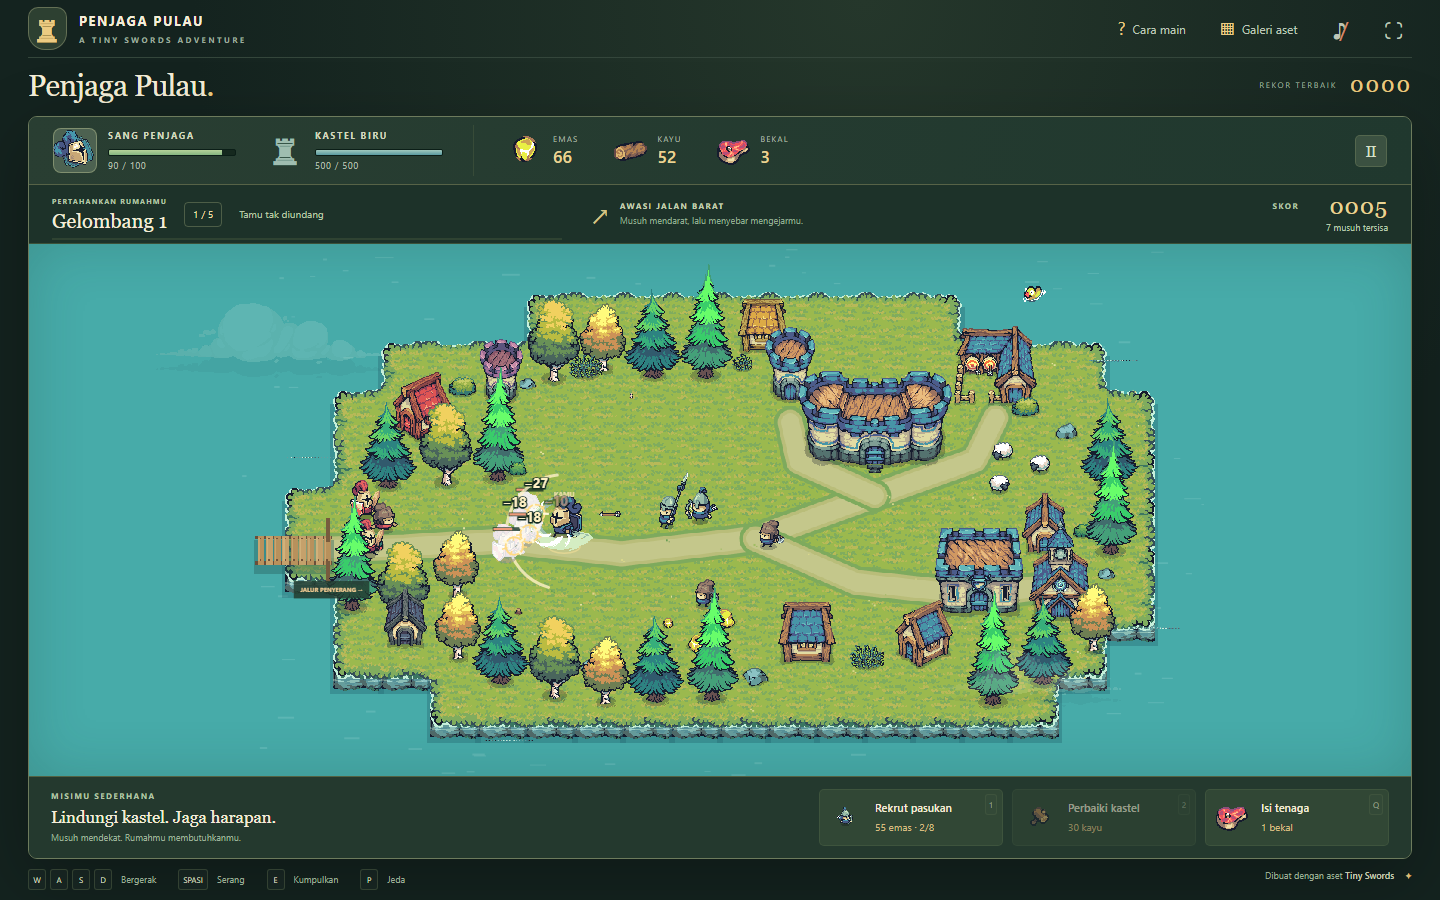
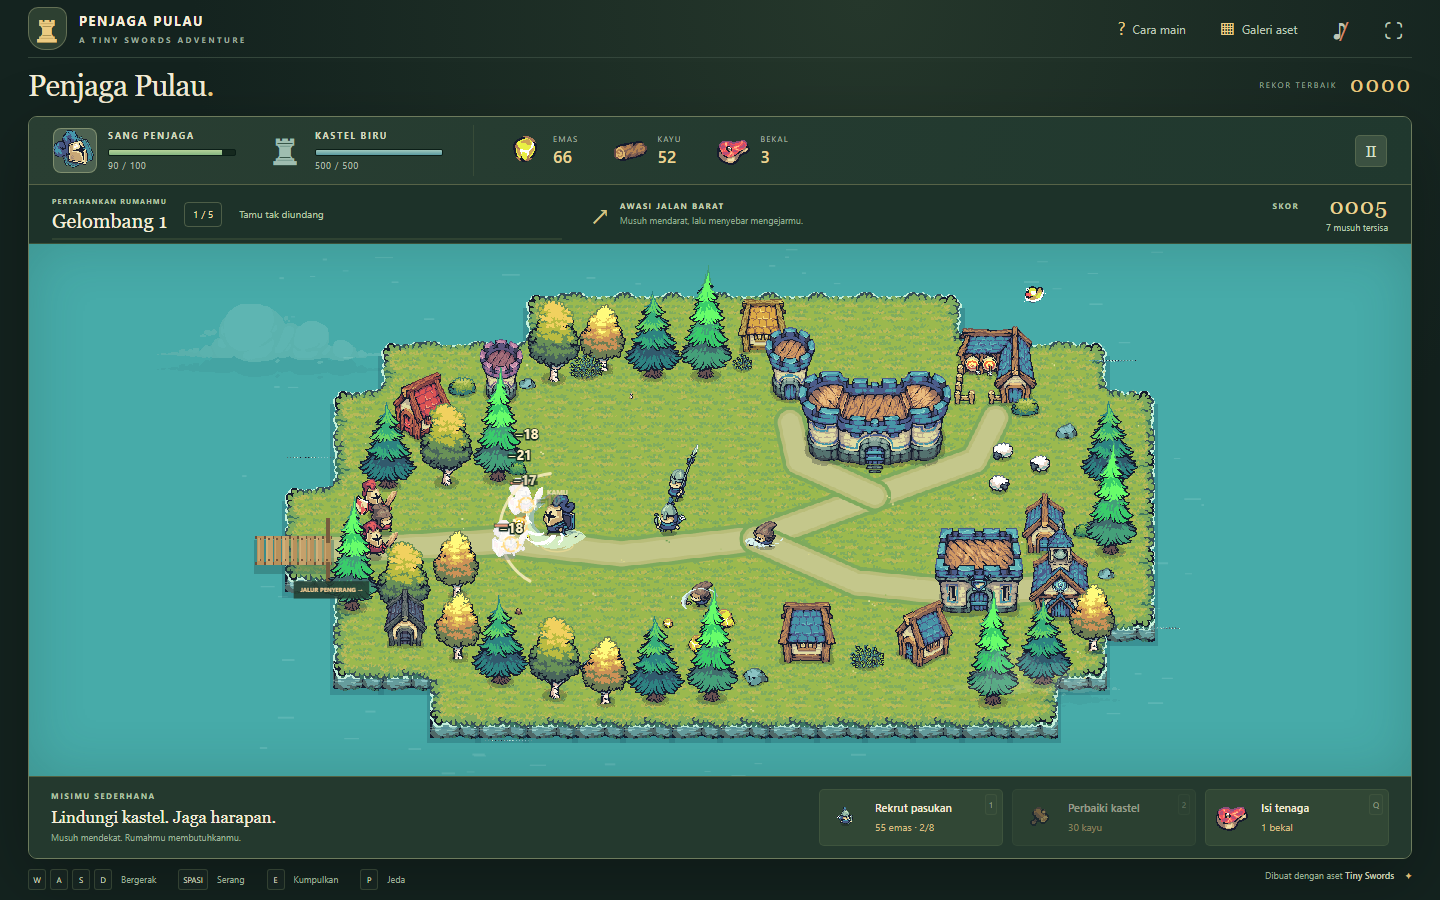
fix error Final

diff --git a/game.js b/game.js
@@ -6,6 +6,7 @@
   const ctx = canvas.getContext('2d');
   const W = 1280, H = 704, TILE = 64;
   const images = new Map();
+  const flashFrames = new Map();
   const manifest = new Map(window.TINY_ASSETS.map(a => [a.path, a]));
   const keys = new Set();
   const rand = (a, b) => a + Math.random() * (b - a);
@@ -31,6 +32,8 @@
   let elapsed = 0, animTime = 0, gatherCooldown = 0, passiveTimer = 0, uiTimer = 0, announcementTimer = 0, toastTimer = 0, shake = 0;
   let enemies = [], allies = [], effects = [], floaters = [], drops = [], projectiles = [], impacts = [];
   let hitStop = 0;
+  const FIXED_STEP = 1 / 60;
+  let simulationAccumulator = 0;
   let damageDealt = 0, damageTaken = 0;
   let best = 0, terrainCanvas, lastTime = 0, pausedForDialog = false, initialized = false;
   let scale = 1, cameraX = 0, cameraY = 0, viewW = W, viewH = H, pointerAttack = false;
@@ -42,12 +45,10 @@
   const rows = { 1: [6, 14], 2: [3, 17], 3: [2, 18], 4: [2, 18], 5: [1, 18], 6: [1, 18], 7: [2, 18], 8: [2, 17], 9: [4, 16] };
   const land = (c, r) => !!rows[r] && c >= rows[r][0] && c <= rows[r][1];
   const onLand = (x, y) => land(Math.floor(x / TILE), Math.floor(y / TILE)) && x > 80 && x < 1195 && y > 80 && y < 630;
+  const footOffsets = Array.from({length:8},(_,i)=>[Math.cos(i*Math.PI/4)*23,Math.sin(i*Math.PI/4)*23]);
   function canStand(x, y) {
     // Stay inside the visible grass edge, including diagonal shore corners.
-    for (let i = 0; i < 8; i++) {
-      const angle = i * Math.PI / 4;
-      if (!onLand(x + Math.cos(angle) * 23, y + Math.sin(angle) * 23)) return false;
-    }
+    for (const [dx,dy] of footOffsets) if (!onLand(x+dx,y+dy)) return false;
     return onLand(x, y);
   }
   function translateEntity(entity, dx, dy) {
@@ -109,27 +110,40 @@
   const navCols = 40, navRows = 22;
   const navNodes = Array.from({ length: navCols * navRows }, (_, i) => ({ x: i % navCols * 32 + 16, y: Math.floor(i / navCols) * 32 + 16 }));
   const navOpen = navNodes.map(p => positionFits(p.x, p.y));
+  // Static topology is built once; units share bounded reverse-distance fields.
+  const navEdges = navNodes.map((n, i) => navOpen[i] ? [i-navCols,i+navCols,i%navCols?i-1:-1,i%navCols<navCols-1?i+1:-1].filter(j => j>=0 && j<navNodes.length && navOpen[j] && clearPath(n,navNodes[j])) : []);
+  const navComponent = new Int16Array(navNodes.length).fill(-1);
+  let componentCount = 0;
+  for(let i=0;i<navNodes.length;i++) if(navOpen[i] && navComponent[i]<0) {
+    const queue=[i];navComponent[i]=componentCount;
+    for(let head=0;head<queue.length;head++) for(const next of navEdges[queue[head]]) if(navComponent[next]<0){navComponent[next]=componentCount;queue.push(next);}
+    componentCount++;
+  }
+  const routeFields = new Map();
+  const navigationStats = { builds:0, hits:0 };
   function routeTo(a, b) {
-    const closest = p => {
-      let index = -1, best = Infinity;
-      navNodes.forEach((n, i) => { if (navOpen[i]) { const d = dist(p, n); if (d < best && clearPath(p, n)) { index = i; best = d; } } });
-      return index;
-    };
-    const start = closest(a);
-    // Targets may stand against a collider; use the nearest reachable cell.
-    let goal = -1, best = Infinity;
-    navNodes.forEach((n, i) => { const d = dist(n, b); if (navOpen[i] && d < best) { goal = i; best = d; } });
-    if (start < 0 || goal < 0) return [];
-    const queue = [start], previous = new Int32Array(navNodes.length).fill(-1); previous[start] = start;
-    for (let head = 0; head < queue.length && previous[goal] < 0; head++) {
-      const i = queue[head];
-      for (const j of [i - navCols, i + navCols, i % navCols ? i - 1 : -1, i % navCols < navCols - 1 ? i + 1 : -1]) {
-        if (j < 0 || j >= navNodes.length || !navOpen[j] || previous[j] >= 0 || !clearPath(navNodes[i], navNodes[j])) continue;
-        previous[j] = i; queue.push(j);
-      }
+    let start=-1,best=Infinity;
+    const col=Math.floor(a.x/32),row=Math.floor(a.y/32);
+    for(let r=Math.max(0,row-3);r<=Math.min(navRows-1,row+3);r++) for(let c=Math.max(0,col-3);c<=Math.min(navCols-1,col+3);c++) {
+      const i=r*navCols+c,n=navNodes[i],d=(n.x-a.x)**2+(n.y-a.y)**2;
+      if(navOpen[i] && d<best && clearPath(a,n)){start=i;best=d;}
     }
-    if (previous[goal] < 0) return [];
-    const path = []; for (let i = goal; i !== start; i = previous[i]) path.unshift(navNodes[i]);
+    if(start<0)return [];
+    let goal=-1;best=Infinity;
+    for(let i=0;i<navNodes.length;i++) if(navComponent[i]===navComponent[start]) {
+      const n=navNodes[i],d=(n.x-b.x)**2+(n.y-b.y)**2;
+      if(d<best){goal=i;best=d;}
+    }
+    if(goal<0)return [];
+    let field=routeFields.get(goal);
+    if(!field){
+      field=new Int16Array(navNodes.length).fill(-1);field[goal]=0;const queue=[goal];
+      for(let head=0;head<queue.length;head++)for(const next of navEdges[queue[head]])if(field[next]<0){field[next]=field[queue[head]]+1;queue.push(next);}
+      if(routeFields.size>=32)routeFields.delete(routeFields.keys().next().value);
+      routeFields.set(goal,field);navigationStats.builds++;
+    }else navigationStats.hits++;
+    const path=[];let current=start;
+    while(current!==goal){const next=navEdges[current].find(i=>field[i]>=0&&field[i]<field[current]);if(next===undefined)return [];path.push(navNodes[next]);current=next;}
     return path;
   }
 
@@ -267,11 +281,21 @@
     return { x: index * width, width, height, count, anchorY: isTree ? (height === 256 ? .95 : .87) : .79 };
   }
   function drawSprite(path, x, y, size, time = animTime, fps = 9, facing = 1, alpha = 1, once = false, flash = false) {
+    if(x+size<cameraX||x-size>cameraX+viewW||y+size<cameraY||y-size>cameraY+viewH)return;
     const im = img(path); if (!im) return;
     const frame = spriteFrame(path, time, fps, once), width = size * frame.width / frame.height;
     ctx.save(); ctx.translate(Math.round(x), Math.round(y)); ctx.scale(facing, 1); ctx.globalAlpha = alpha;
-    if (flash) ctx.filter = 'brightness(0) invert(1)';
-    ctx.drawImage(im, frame.x, 0, frame.width, frame.height, -width / 2, -size * frame.anchorY, width, size);
+    if (flash) {
+      const key=path+':'+frame.x;let white=flashFrames.get(key);
+      if(!white){
+        white=document.createElement('canvas');white.width=frame.width;white.height=frame.height;
+        const g=white.getContext('2d');g.drawImage(im,frame.x,0,frame.width,frame.height,0,0,frame.width,frame.height);
+        g.globalCompositeOperation='source-in';g.fillStyle='#fff';g.fillRect(0,0,frame.width,frame.height);
+        if(flashFrames.size>=32)flashFrames.delete(flashFrames.keys().next().value);
+        flashFrames.set(key,white);
+      }
+      ctx.drawImage(white,-width/2,-size*frame.anchorY,width,size);
+    } else ctx.drawImage(im, frame.x, 0, frame.width, frame.height, -width / 2, -size * frame.anchorY, width, size);
     ctx.restore();
   }
   function drawImageAt(path, x, y, width, alpha = 1) {
@@ -402,7 +426,7 @@
   }
 
   const reducedMotion = matchMedia('(prefers-reduced-motion: reduce)').matches;
-  function addEffect(path, x, y, size = 90, life = .55, fps = 14) { effects.push({ path, x, y, size, life, time: 0, fps }); }
+  function addEffect(path, x, y, size = 90, life = .55, fps = 14) { if(effects.length>=80)effects.shift(); effects.push({ path, x, y, size, life, time: 0, fps }); }
   function float(text, x, y, color = '#f4d790', large = false) {
     let fy = y - 30;
     for (let attempts = 0; attempts < 5; attempts++) {
@@ -439,6 +463,12 @@
     }
   }
   function steerMove(entity, target, dt, speed = entity.speed) {
+    entity.progressTimer = (entity.progressTimer || 0) - dt;
+    if(entity.progressTimer<=0){
+      entity.stallSeconds = entity.progressPosition && dist(entity,entity.progressPosition)<6 && dist(entity,target)>40 ? (entity.stallSeconds||0)+1 : 0;
+      entity.progressPosition = {x:entity.x,y:entity.y};entity.progressTimer=1;
+      if(entity.stallSeconds>0)entity.routeTimer=0;
+    }
     entity.routeTimer = (entity.routeTimer || 0) - dt;
     if (!clearPath(entity, target)) {
       if (entity.routeTimer <= 0 || !entity.routeTarget || dist(entity.routeTarget, target) > 64) {
@@ -447,8 +477,9 @@
       const path = entity.route || [];
       while (path.length && dist(entity, path[0]) < 12) path.shift();
       while (path.length > 1 && clearPath(entity, path[1])) path.shift();
-      if (path.length) { move(entity, path[0].x - entity.x, path[0].y - entity.y, dt, speed); return; }
-    } else entity.route = [];
+      if (path.length) { move(entity, path[0].x - entity.x, path[0].y - entity.y, dt, speed); entity.blockedSeconds = 0; return; }
+      entity.blockedSeconds = (entity.blockedSeconds || 0) + dt; entity.moving = false; return;
+    } else { entity.route = []; entity.blockedSeconds = 0; }
     let dx = target.x - entity.x, dy = target.y - entity.y;
     const distance = Math.hypot(dx, dy); if (distance < 3) { entity.moving = false; return; }
     dx /= distance; dy /= distance;
@@ -477,6 +508,7 @@
   function startGame() {
     if (!initialized) return;
     Object.assign(hero, { x: 788, y: 370, hp: 100, facing: 1, attack: 0, cooldown: 0, invuln: 0, moving: false, hitFlash: 0, stagger: 0, knockX: 0, knockY: 0, strike: null });
+    simulationAccumulator = 0; pausedForDialog = false;
     hero.work = null; hero.healCooldown = 0; hero.animTime = 0; hero.animState = 'Idle';
     castle.hp = 500; castle.hitFlash = 0; gold = 80; wood = 40; food = 3; score = 0; kills = 0; recruitIndex = 0;
     enemies = []; allies = []; effects = []; floaters = []; drops = []; projectiles = []; impacts = []; hitStop = 0; damageDealt = 0; damageTaken = 0;
@@ -556,6 +588,7 @@
     if (hero.hp >= 100) { notify('Tenagamu masih penuh.'); return; }
     if (food < 1) { notify('Bekal habis. Dekati domba lalu tekan E.'); return; }
     const restored = Math.min(45, 100 - hero.hp);
+    hero.work = null;
     food--; hero.healCooldown = 1.8; hero.hp += restored; float(`+${Math.ceil(restored)}`, hero.x, hero.y, '#c6eea1', true);
     addEffect(blue('Monk', 'Heal_Effect'), hero.x, hero.y, 140, .8); tone(587, .25); updateUI();
   }
@@ -598,6 +631,7 @@
     target.hp -= amount;
     target.hitFlash = .18;
     const angle = source ? Math.atan2(target.y - source.y, target.x - source.x) : rand(0, Math.PI * 2);
+    if(impacts.length>=60)impacts.shift();
     impacts.push({ x: target.x, y: target.y - (target === castle ? 40 : 27), angle, color: target === hero || target.team === 'ally' ? '#ff977d' : '#ffdb86', life: .3, duration: .3 });
     float(`−${Math.ceil(appliedDamage)}`, target.x, target.y - (target === castle ? 45 : 10), target === hero ? '#ffbaa1' : '#fff1c5', true);
     if (target === hero) {
@@ -639,9 +673,14 @@
     return target;
   }
   function segmentHit(a, b, target, radius) {
-    const dx = b.x - a.x, dy = b.y - a.y, length = dx * dx + dy * dy;
-    const t = length ? clamp(((target.x - a.x) * dx + (target.y - a.y) * dy) / length, 0, 1) : 0;
-    return Math.hypot(a.x + dx * t - target.x, a.y + dy * t - target.y) <= radius ? t : Infinity;
+    const dx=b.x-a.x,dy=b.y-a.y,ox=a.x-target.x,oy=a.y-target.y;
+    const c=ox*ox+oy*oy-radius*radius;
+    if(c<=0)return 0;
+    const length=dx*dx+dy*dy;if(length===0)return Infinity;
+    const projection=ox*dx+oy*dy,disc=projection*projection-length*c;
+    if(disc<0)return Infinity;
+    const t=(-projection-Math.sqrt(disc))/length;
+    return t>=0&&t<=1?t:Infinity;
   }
   function updateUnit(u, dt) {
     u.attack = Math.max(0, u.attack - dt); u.cooldown -= dt;
@@ -651,7 +690,7 @@
       u.strike.timer -= dt;
       if (u.strike.timer <= 0) {
         const strike = u.strike; u.strike = null;
-        if (strike.target.hp > 0 && dist(u, strike.target) <= strike.range && (u.kind === 'Archer' || ((strike.target.x - u.x) * u.facing >= -12 && clearPath(u, strike.target)))) {
+        if (strike.target.hp > 0 && dist(u, strike.target) <= strike.range && (u.kind === 'Archer' || ((strike.target.x - u.x) * u.facing >= -12 && (strike.target === castle || clearPath(u, strike.target))))) {
           if (u.kind === 'Archer') fireArrow(u, strike.target);
           else hurt(strike.target, strike.damage, u);
         }
@@ -677,7 +716,7 @@
       else u.moving = false;
       return;
     }
-    const target = u.team === 'ally' ? nearest(u, enemies, 650) : nearest(u, [hero, ...allies], 160) || (dist(u, castle) < 130 && dist(u, hero) > 420 ? castle : hero);
+    const target = u.team === 'enemy' && (u.blockedSeconds > 2 || u.stallSeconds > 3) ? castle : u.team === 'ally' ? nearest(u, enemies, 650) : nearest(u, [hero, ...allies], 160) || (dist(u, castle) < 130 && dist(u, hero) > 420 ? castle : hero);
     if (!target) { if (dist(u, { x: u.homeX, y: u.homeY }) > 35) steerMove(u, { x: u.homeX, y: u.homeY }, dt); else u.moving = false; return; }
     const d = dist(u, target), range = u.kind === 'Archer' ? 225 : target === castle ? 88 : u.kind === 'Lancer' ? 91 : 51;
     if (u.team === 'enemy' && u.kind === 'Archer' && d < 145 && !u.strike) {
@@ -702,6 +741,7 @@
   }
 
   function update(dt) {
+    if (state !== 'playing') return;
     for (const u of [hero, ...allies, ...enemies]) keepOnLand(u);
     if (castle.hp <= 0 || hero.hp <= 0) { finish(false); return; }
     if (hitStop > 0) { hitStop -= dt; return; }
@@ -722,6 +762,7 @@
     const dy = Number(keys.has('s') || keys.has('arrowdown')) - Number(keys.has('w') || keys.has('arrowup'));
     if ((dx || dy) && hero.work) { hero.work = null; gatherCooldown = .2; }
     if (hero.stagger <= 0) move(hero, dx, dy, dt, 185 * (hero.attack > 0 ? .55 : 1));
+    if ((keys.has(' ') || pointerAttack) && hero.work) { hero.work = null; gatherCooldown = .18; }
     updateWork(dt);
     if (keys.has(' ') || pointerAttack) heroAttack();
     if (keys.has('e')) gather();
@@ -744,13 +785,25 @@
     for (const p of projectiles) {
       const previous = { x: p.x, y: p.y };
       p.life -= dt; p.x += p.vx * dt; p.y += p.vy * dt;
-      const candidates = p.team === 'ally' ? enemies : [hero, ...allies, castle];
-      const hits = candidates.filter(target => target.hp > 0).map(target => ({ target, t: segmentHit(previous, p, target, target === castle ? 57 : 20) })).filter(hit => Number.isFinite(hit.t)).sort((a, b) => a.t - b.t);
-      if (hits.length) {
-        const hit = hits[0]; p.x = previous.x + (p.x - previous.x) * hit.t; p.y = previous.y + (p.y - previous.y) * hit.t;
-        hurt(hit.target, p.damage, p.source); p.life = 0; addEffect('Particle FX/Dust_01.png', p.x, p.y, 32, .25);
+      let first=null,firstT=Infinity;
+      for(const obstacle of obstacleList) {
+        // Ignore only a collider containing the shooter, never downstream cover.
+        if(dist(p.source,obstacle)<obstacle.radius+10)continue;
+        const t=segmentHit(previous,p,obstacle,obstacle.radius+2);
+        if(t<firstT){firstT=t;first={obstacle};}
+      }
+      const candidates=p.team==='ally'?enemies:[hero,...allies,castle];
+      for(const target of candidates)if(target.hp>0){
+        const t=segmentHit(previous,p,target,target===castle?57:20);
+        if(t<firstT){firstT=t;first={target};}
+      }
+      if(first){
+        p.x=previous.x+(p.x-previous.x)*firstT;p.y=previous.y+(p.y-previous.y)*firstT;
+        if(first.target)hurt(first.target,p.damage,p.source);
+        p.life=0;addEffect('Particle FX/Dust_01.png',p.x,p.y,32,.25);
       }
     }
+
     projectiles = projectiles.filter(p => p.life > 0); enemies = enemies.filter(u => u.hp > 0); allies = allies.filter(u => u.hp > 0);
     for (const d of drops) {
       d.life -= dt;
@@ -765,7 +818,7 @@
       else u.animTime = (u.animTime || 0) + dt;
     }
     passiveTimer += dt;
-    if (passiveTimer >= 6) { passiveTimer = 0; wood += 3; gold += 4; float('+3 kayu', villagers[0].x, villagers[0].y, '#dbdca0'); float('+4 emas', villagers[1].x, villagers[1].y); }
+    if (passiveTimer >= 6) { passiveTimer -= 6; wood += 3; gold += 4; float('+3 kayu', villagers[0].x, villagers[0].y, '#dbdca0'); float('+4 emas', villagers[1].x, villagers[1].y); }
     if (castle.hp <= 0 || hero.hp <= 0) { finish(false); return; }
     if (phase === 'battle' && spawned >= waves[waveIndex].count && enemies.length === 0) finishWave();
     uiTimer += dt;
@@ -796,16 +849,24 @@
   function togglePause(force) {
     if (state !== 'playing' && state !== 'paused') return;
     const pause = typeof force === 'boolean' ? force : state === 'playing';
+    simulationAccumulator = 0;
     state = pause ? 'paused' : 'playing'; keys.clear(); pointerAttack = false;
     $('pauseScreen').hidden = !pause; $('pauseButton').textContent = pause ? '▶' : 'Ⅱ';
     $('pauseButton').setAttribute('aria-label', pause ? 'Lanjutkan permainan' : 'Jeda permainan');
     $('interactionHint').hidden = true;
     if (pause) $('resumeButton').focus({ preventScroll: true }); else canvas.focus({ preventScroll: true });
   }
+  function advance(dt) {
+    if(state!=='playing'){simulationAccumulator=0;return;}
+    simulationAccumulator += Math.min(.1,Math.max(0,dt));
+    for(let steps=0;simulationAccumulator+1e-9>=FIXED_STEP&&steps<6&&state==='playing';steps++){
+      simulationAccumulator=Math.max(0,simulationAccumulator-FIXED_STEP);update(FIXED_STEP);
+    }
+  }
   function frame(time) {
-    const dt = Math.min((time - lastTime) / 1000, .04) || .016; lastTime = time;
+    const dt = Math.min((time - lastTime) / 1000, .1) || .016; lastTime = time;
     if (state !== 'paused' && !document.querySelector('dialog[open]') && state !== 'won' && state !== 'lost') animTime += dt;
-    if (state === 'playing') update(dt);
+    advance(dt);
     if (state !== 'paused') {
       for (const e of effects) { e.life -= dt; e.time += dt; }
       effects = effects.filter(e => e.life > 0);
@@ -822,6 +883,7 @@
   // Dialogs stop the battle and resume only if it was running beforehand.
   function openDialog(id) {
     if (document.querySelector('dialog[open]')) return;
+    simulationAccumulator = 0;
     pausedForDialog = state === 'playing'; if (pausedForDialog) { state = 'paused'; keys.clear(); pointerAttack = false; }
     if (id === 'galleryDialog' && !$('galleryGrid').children.length) renderGallery();
     $(id).showModal();

diff --git a/README.md b/README.md
@@ -85,3 +85,14 @@ Hak dan lisensi aset mengikuti paket Tiny Swords aslinya.
 - Pemanah berhenti sejenak saat membidik. Animasi menyelesaikan seluruh frame serangan, dan animasi berjalan/diam dimulai dari transisi yang sesuai. Pekerjaan tidak dimulai kembali selama pemain bergerak.
 - Bekal memiliki jeda pemakaian 1,8 detik; biarawan sekutu memulihkan 16 HP. Gelombang terakhir berisi 20 musuh agar kenaikan tekanan lebih bertahap.
 - Angka damage menampilkan HP yang benar-benar berkurang, diberi jarak vertikal, dan dibatasi jumlahnya. Teks status diperjelas pada layar kecil.
+
+## Ketahanan simulasi
+
+- Panah berhenti pada penghalang atau sasaran pertama sepanjang lintasannya. Pohon dan bangunan tidak lagi dapat ditembus panah.
+- Graf navigasi dan komponen daratan dihitung sekali. Pasukan berbagi cache maksimal 32 medan jarak; tujuan di luar jangkauan diproyeksikan ke daratan yang terhubung. Pasukan yang tidak mendapat jalur berhenti aman, mencoba ulang, dan penyerang yang terus terhambat mengalihkan tekanan ke kastel.
+- Simulasi menggunakan langkah tetap 60 Hz dengan maksimal enam langkah pengejaran per frame. Jeda menghapus sisa waktu tertunda, sehingga melanjutkan permainan tidak memicu lonjakan gerakan.
+- Serangan membatalkan pekerjaan sebelum hadiah diberikan. Terkena pukulan membatalkan ayunan tertunda. Gerakan, serangan, dan interaksi diperiksa dalam uji ulang yang sama pada render 30, 60, dan 120 FPS.
+- Efek sementara dibatasi 80 animasi dan 60 benturan agar alokasi tidak terus bertambah saat ramai.
+- Jalankan `node game-preview/browser-test.mjs --stress` untuk uji browser biasa ditambah pengukuran 28 unit. Hasil waktu CPU simulasi disimpan dalam `game-preview/performance.json`. Angka ini mengukur simulasi pada komputer penguji, bukan jaminan FPS di semua perangkat.
+
+Pengukuran tambahan: `node game-preview/browser-test.mjs --stress --benchmark-only` juga mengukur interval frame selama sekitar empat detik dengan 28 unit tetap aktif. Pada pengujian Chrome headless 1366×768 dengan GPU dinonaktifkan, cache frame kilatan menurunkan persentil ke-95 interval frame yang teramati dari 50 ms menjadi 16,7 ms; frame terlama dari 83,4 ms menjadi 33,4 ms. CPU simulasi rata-rata sekitar 0,36 ms per langkah. Hasil pengukuran sebelum dan sesudah tersimpan di folder `game-preview`; angka dapat berubah menurut perangkat dan beban komputer. Cache kilatan dibatasi 32 frame dan sprite di luar kamera dilewati.
